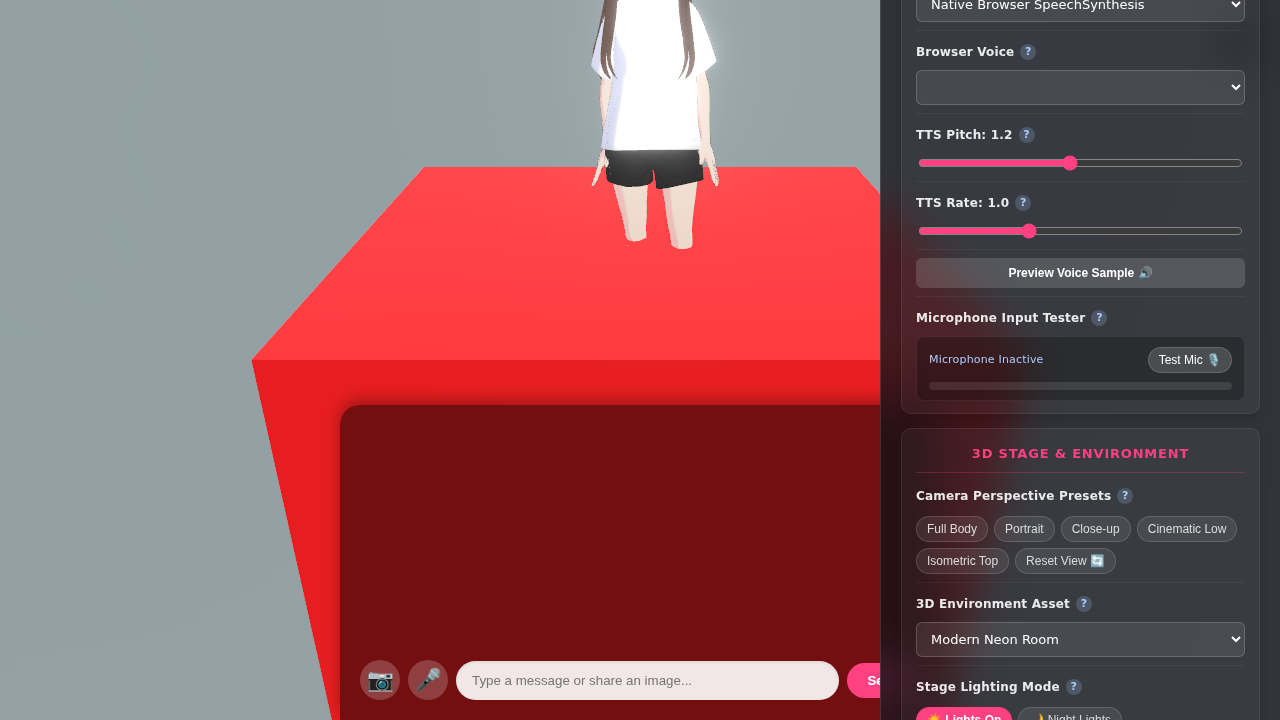
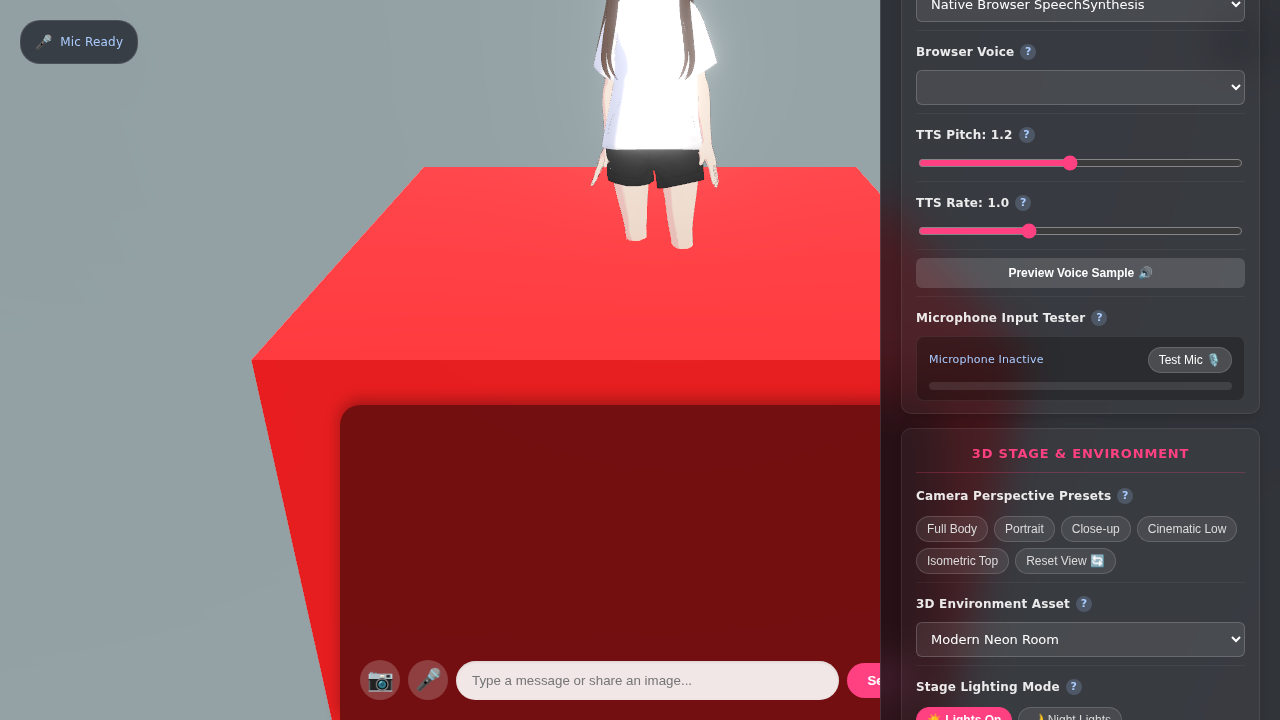
feat: v0.33.0 - Viewport Audio Activity HUD & Micro-Waveforms
Added in-viewport floating audio status HUD badge (.viewport-mic-badge) with real-time waveform bars driven by Web Audio API volume levels. Connected live mic gain and recording indicators directly to canvas HUD, polished drag-overlay visuals, and updated governance documentation.

diff --git a/client/src/App.jsx b/client/src/App.jsx
@@ -820,6 +820,23 @@ You can spawn visual particles using [effect:sparkle] and clear them with [effec
         </div>
       )}
 
+      {/* Viewport Microphone & Audio Activity HUD Badge */}
+      <div className={`viewport-mic-badge ${isTestingMic || isRecording ? 'active' : ''}`}>
+        <span className="viewport-mic-icon">
+          {isRecording ? '🔴' : isTestingMic ? '🎙' : '🎤'}
+        </span>
+        <span className="viewport-mic-label">
+          {isRecording ? 'Listening...' : isTestingMic ? `Mic: ${micLevel}%` : 'Mic Ready'}
+        </span>
+        {(isTestingMic || isRecording) && (
+          <div className="viewport-mic-wave">
+            <span style={{ height: `${Math.max(4, Math.min(18, (micLevel / 100) * 18))}px` }} />
+            <span style={{ height: `${Math.max(6, Math.min(22, (micLevel / 100) * 22))}px` }} />
+            <span style={{ height: `${Math.max(4, Math.min(16, (micLevel / 100) * 16))}px` }} />
+          </div>
+        )}
+      </div>
+
       {/* Settings Toggle Button */}
       <button
         className="dashboard-toggle-btn"

diff --git a/client/src/App.css b/client/src/App.css
@@ -427,6 +427,54 @@
   transform: scale(1.05);
 }
 
+/* Viewport Microphone & Audio Activity HUD Badge */
+.viewport-mic-badge {
+  position: absolute;
+  top: 20px;
+  left: 20px;
+  display: flex;
+  align-items: center;
+  gap: 8px;
+  background: rgba(18, 20, 28, 0.7);
+  backdrop-filter: blur(10px);
+  border: 1px solid rgba(255, 255, 255, 0.1);
+  padding: 8px 14px;
+  border-radius: 20px;
+  color: #aaccff;
+  font-size: 12px;
+  font-weight: 500;
+  z-index: 30;
+  transition: all 0.25s ease;
+  user-select: none;
+}
+
+.viewport-mic-badge.active {
+  border-color: #00d2ff;
+  background: rgba(18, 26, 38, 0.85);
+  box-shadow: 0 0 15px rgba(0, 210, 255, 0.3);
+  color: #fff;
+}
+
+.viewport-mic-icon {
+  font-size: 14px;
+}
+
+.viewport-mic-wave {
+  display: flex;
+  align-items: center;
+  gap: 3px;
+  height: 20px;
+  margin-left: 4px;
+}
+
+.viewport-mic-wave span {
+  display: inline-block;
+  width: 3px;
+  background: #00d2ff;
+  border-radius: 2px;
+  transition: height 0.1s ease;
+}
+
 /* Full Viewport Drag and Drop Overlay */
 .drop-overlay {
   position: absolute;

diff --git a/HANDOFF.md b/HANDOFF.md
@@ -1,6 +1,10 @@
-# Session Handoff - v0.32.0
+# Session Handoff - v0.33.0
 
 ## Completed Work in this Session
+- **Phase 45: In-Viewport Floating Audio Status HUD & Micro-Waveforms**:
+  - Integrated `.viewport-mic-badge` on the top-left of the 3D canvas displaying real-time microphone gain/activity status and micro-waveform bars.
+  - Connected Web Audio API volume peaks to floating HUD to allow voice monitoring without opening Companion Studio.
+  - Styled HUD badge with frosted glassmorphism and cyan pulse accents in `App.css`.
 - **Phase 44: Binary VRM Validation & Drop Overlay Visuals**:
   - Implemented `validateVRMBinary` in `CacheUtils.js` checking little-endian magic header `0x46546C67` (`glTF`) before writing into IndexedDB.
   - Integrated fast binary validation into viewport drag-and-drop and input upload handlers in `App.jsx`.

diff --git a/CHANGELOG.md b/CHANGELOG.md
@@ -1,5 +1,11 @@
 # CHANGELOG
 
+## [0.33.0] - In-Viewport Audio Activity HUD & Micro-Waveforms
+### Added
+- Integrated floating viewport audio HUD badge (`.viewport-mic-badge`) in `App.jsx` showing real-time microphone gain/activity status and dynamic wave bars.
+- Connected Web Audio API volume peaks to floating HUD to allow voice monitoring without opening Companion Studio.
+- Styled HUD badge with frosted glassmorphism and cyan pulse accents in `App.css`.
+
 ## [0.32.0] - Binary VRM Validation & Drop Overlay Visuals
 ### Added
 - Implemented `validateVRMBinary` in `CacheUtils.js` to inspect glTF/VRM magic binary headers (`0x46546C67` / `glTF`) prior to IndexedDB writes.

diff --git a/TODO.md b/TODO.md
@@ -35,4 +35,5 @@
 - [x] Add Cinematic Low and Isometric Top camera perspective presets and reset view button.
 - [x] Implement VRM drag-and-drop IndexedDB metadata persistence and UI model badge.
 - [x] Add binary magic header validation for glTF/VRM drag-and-drop with pulsing overlay styling.
+- [x] In-viewport floating audio status HUD badge with live micro-waveform animations.
 - [ ] Atmospheric audio / spatial ambient soundscape generator.

diff --git a/ROADMAP.md b/ROADMAP.md
@@ -37,4 +37,5 @@
 - [x] Phase 42: Cinematic & Isometric Camera Perspectives.
 - [x] Phase 43: VRM Drag-and-Drop & IndexedDB Metadata Persistence.
 - [x] Phase 44: Binary VRM Validation & Drop Overlay Visuals.
-- [ ] Phase 45: Dynamic Ambient Soundscapes & Atmospheric Audio.
+- [x] Phase 45: In-Viewport Floating Audio Status HUD & Micro-Waveforms.
+- [ ] Phase 46: Dynamic Ambient Soundscapes & Atmospheric Audio.

diff --git a/VERSION.md b/VERSION.md
@@ -1,1 +1,1 @@
-0.32.0
+0.33.0
